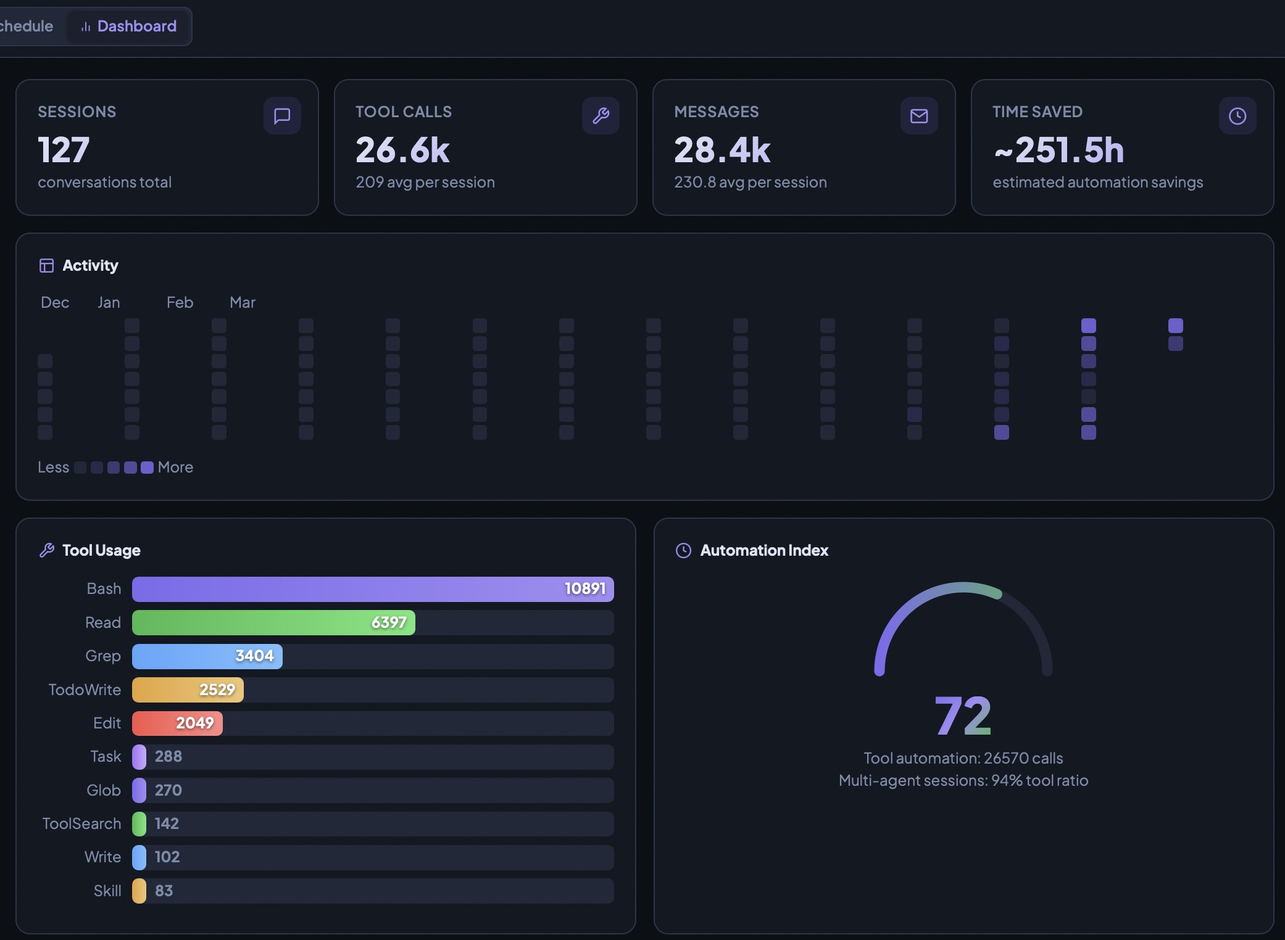
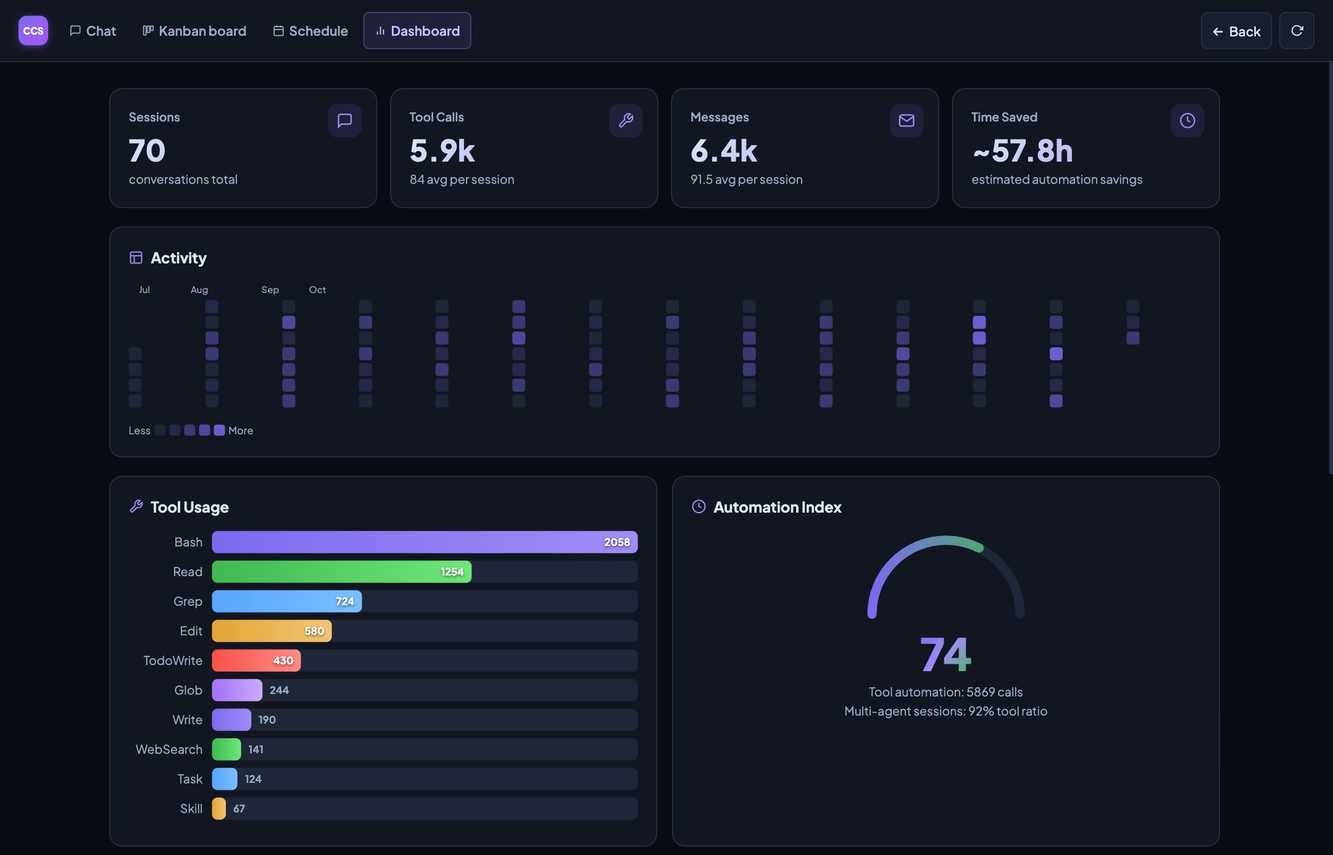
docs(readme): new screenshots of the focused workspace; descriptions match the current UI
Screenshots (same file names, so all three READMEs pick them up):
- 02-main-chat.png: the chat as it is now — Tools & team rail, Run settings, Back /
  Go to…, Files panel — with a real Claude conversation (Read + Edit on a demo repo).
- 03-kanban.png: the board with its new header (Back, Group, Task) and status columns.
- dashboard.jpg: the current dashboard.
Taken from a throwaway demo workspace (demo projects and demo history, no personal data).

Text, checked against the code, in EN/UA/RU:
- new "Focused workspace" paragraph: Tools & team, Run settings, More, Back, Go to… (⌘K/Ctrl+K);
- CLI import is under More (the header ↓ button is gone); Markdown export is ↓ Export ▾;
- bots, agents, Telegram pairing live under Tools & team; Effort and the engine ★ are in
  Run settings; New-chat defaults are under More → Configuration;
- Multi mode: 2–5 planned (cap 8), 3 at a time; the plan JSON is no longer claimed to be
  "guaranteed" to parse (a fallback exists);
- UA/RU gain the reverse-proxy boundary paragraph the English README already had;
- CLAUDE_IDLE_TIMEOUT_MS: note that .env.example ships 30 min.

diff --git a/README_RU.md b/README_RU.md
@@ -167,9 +167,11 @@ npm install -g npm@latest
 
 Это не чат-бот. «Отрефактори эту функцию и добавь тесты» → Claude открывает файлы, редактирует их, запускает тесты, исправляет ошибки, докладывает о результатах — в реальном времени. Вставляйте скриншоты через Ctrl+V. Когда Claude задаёт вопрос в середине задачи, карточка сворачивается в компактный пузырь после вашего ответа. Нажмите **Compact & New** — разговор сожмётся через Haiku и продолжится в новой сессии с сохранённым контекстом, без траты токенов.
 
-**Быстрый фильтр боковой панели** — в каждой секции (Проекты, Чаты, MCP-серверы, Навыки, Команды) есть кнопка 🔽. Нажмите, введите несколько букв — список мгновенно сужается. Esc для сброса.
+**Сфокусированное рабочее пространство** — в левой панели остаются Активность, Проекты и Чаты; боты, агенты, MCP-серверы, навыки, команды, SSH-хосты, удалённый доступ и Telegram собраны в **Инструменты и команда**. Режим, режим агентов, модель, движок, effort и шаги — в одной панели **Параметры запуска** с кратким итогом, а импорт CLI, настройки, язык и выход — в меню **Ещё**. **Назад** возвращает к предыдущему чату или проекту (кнопки браузера «Назад» и «Вперёд» тоже работают), а **Перейти к…** (⌘K на macOS, Ctrl+K в других системах) открывает любую страницу, инструмент или проект.
 
-**Импорт сессий Claude CLI** — импортируйте существующие сессии Claude Code CLI из `~/.claude/projects/` прямо в Studio. Нажмите кнопку ↓ в шапке, укажите путь к проекту, выберите сессии, импортируйте. Уже импортированные сессии отмечаются, чтобы не было дублей. Работает на Windows (`C:\...`), macOS и Linux; поддерживается раскрытие `~`.
+**Быстрый фильтр боковой панели** — в каждой секции (Проекты, Чаты, а также MCP-серверы, Навыки и Команды в «Инструменты и команда») есть кнопка 🔽. Нажмите, введите несколько букв — список мгновенно сужается. Esc для сброса.
+
+**Импорт сессий Claude CLI** — импортируйте существующие сессии Claude Code CLI из `~/.claude/projects/` прямо в Studio. Откройте **Ещё → Импорт сессий Claude CLI**, укажите путь к проекту, выберите сессии, импортируйте. Уже импортированные сессии отмечаются, чтобы не было дублей. Работает на Windows (`C:\...`), macOS и Linux; поддерживается раскрытие `~`.
 
 **Расширенное мышление** — когда Claude использует extended thinking, каждый блок размышлений отображается как бейдж «Chain of thought» с оценкой количества слов. Нажмите, чтобы открыть полную цепочку рассуждений в модальном окне с кнопкой копирования. Модальные окна импорта CLI и цепочки рассуждений полностью локализованы (EN/UA/RU/FR/HE) — все надписи, сообщения статуса и формат дат адаптируются к выбранному языку интерфейса.
 
@@ -187,7 +189,7 @@ npm install -g npm@latest
 
 **Поиск в чате** — нажмите **Ctrl+F** (или **⌘F** на Mac), чтобы открыть строку поиска над сообщениями. Введите текст — отображаются только совпадающие сообщения. Перемещайтесь между совпадениями кнопками ▲▼ или **Enter / Shift+Enter**. **Esc** для закрытия. Мгновенно найдите ту команду, которую запускали триста сообщений назад.
 
-**Экспорт в Markdown** — нажмите **📄 MD** на панели сессии, чтобы скачать весь разговор как чистый `.md` файл. Сообщения пользователя становятся заголовками `## You`, ответы ассистента — `## Claude`. Идеально для вставки в документы, Notion, Obsidian или передачи в другой ИИ для анализа. Без настроек — один клик, мгновенная загрузка.
+**Экспорт в Markdown** — нажмите **↓ Экспорт ▾ → Markdown (.md)** на панели сессии, чтобы скачать весь разговор как чистый `.md` файл. Сообщения пользователя становятся заголовками `## You`, ответы ассистента — `## Claude`. Идеально для вставки в документы, Notion, Obsidian или передачи в другой ИИ для анализа. Без настроек — один клик, мгновенная загрузка.
 
 **Клавиша `G` — переход к последнему сообщению** — нажмите **`G`** (вне текстового поля) для мгновенного перехода в конец чата. Незаменимо в длинных сессиях, когда вы прокрутили вверх для просмотра контекста и хотите вернуться без мыши.
 
@@ -220,7 +222,7 @@ npm install -g npm@latest
 
 Один ассистент, отвечающий на всё, — это универсал. **Боты** позволяют создать *именованных специалистов*: у каждого свой системный промпт, своя модель, своя память разговора — и посадить нескольких в **один чат**, обращаясь по имени.
 
-Создайте бота в боковой панели: имя, аватар, описание, модель, инструкции (или возьмите готовый шаблон — Аналитик, Редактор, Рецензент, Объяснятель). Дальше просто зовите:
+Создайте бота в **Инструменты и команда → Боты**: имя, аватар, описание, модель, инструкции (или возьмите готовый шаблон — Аналитик, Редактор, Рецензент, Объяснятель). Дальше просто зовите:
 
 ```
 @@analyst @@writer Проанализируйте рынок криптовалют за квартал и сделайте PDF-отчёт для клуба трейдеров.
@@ -321,7 +323,7 @@ npm install -g npm@latest
 
 ### 📱 Telegram-бот — управление с телефона
 
-Привязка за 30 секунд (6-символьный код в Настройках). Ваш телефон становится полноценным пультом управления:
+Привязка за 30 секунд: **Инструменты и команда → Telegram → Подключить Telegram**, затем введите 6-символьный код в Telegram-боте. Ваш телефон становится полноценным пультом управления:
 
 - **Очередь и мониторинг:** `/projects`, `/chats`, `/tasks`, `/chat`, `/new`
 - **Просмотр результатов:** `/last`, `/full` — плюс push-уведомления о завершении или сбое задач
@@ -345,7 +347,7 @@ npm install -g npm@latest
 | | Одиночный | Мультиагент | Dispatch | Комната |
 |---|---|---|---|---|
 | Где | Чат | Чат | Kanban-доска | Чат |
-| Агенты | 1 | 2–5 параллельно | 2–5 как карточки задач | 2–6 ботов проекта |
+| Агенты | 1 | 2–5 по плану (до 8), по 3 одновременно | 2–5 как карточки задач | 2–6 ботов проекта |
 | Зависимости | — | Базовые | Полный DAG | Последовательные ходы |
 | Автоповтор | Нет | Нет | Да (с задержкой) | Нет |
 | Выживает перезапуск | Нет | Нет | Да (SQLite) | Нет |
@@ -368,7 +370,7 @@ npm install -g npm@latest
 
 Как работает: нажмите **Делегировать** в панели сессии, выберите агента и режим, опишите задачу. Studio генерирует `CONTEXT.md` с историей разговора и открывает терминал с внешним агентом. В режиме Sync оба агента общаются через общий `DIALOG.md` — ответы появляются прямо в основном чате с уведомлениями в реальном времени.
 
-**Панель агентов** — управление внешними агентами теперь встроено прямо в боковую панель. Добавляйте, редактируйте и удаляйте агентов без правки `config.json`. Восемь агентов — Claude Code, Codex, Grok, Antigravity CLI, opencode, Hermes, Cursor Agent и Kimi — **настроены из коробки** и создаются автоматически при первом запуске. Кнопка **Тест** рядом с каждым агентом проверяет подключение перед делегированием. ID агента генерируется из названия автоматически (с транслитерацией кириллицы). Полностью локализовано EN/UA/RU/FR/HE. Работает на **Windows** — делегирование через `cmd.exe` с правильным экранированием. Делегирования сохраняются после перезапуска сервера.
+**Панель агентов** — управление внешними агентами теперь встроено в боковую панель — раздел **Инструменты и команда**. Добавляйте, редактируйте и удаляйте агентов без правки `config.json`. Восемь агентов — Claude Code, Codex, Grok, Antigravity CLI, opencode, Hermes, Cursor Agent и Kimi — **настроены из коробки** и создаются автоматически при первом запуске. Кнопка **Тест** рядом с каждым агентом проверяет подключение перед делегированием. ID агента генерируется из названия автоматически (с транслитерацией кириллицы). Полностью локализовано EN/UA/RU/FR/HE. Работает на **Windows** — делегирование через `cmd.exe` с правильным экранированием. Делегирования сохраняются после перезапуска сервера.
 
 ### 🎛 Режимы чата
 
@@ -410,7 +412,7 @@ Sonnet, Opus и Fable работают с **контекстным окном в
 
 Бюджет итераций: 1–200 (по умолчанию 50). Автопродолжение до 3х — так что 50 итераций фактически означает до 200 шагов.
 
-**Регулятор глубины мышления** — новый выпадающий список `Effort` в панели инструментов чата (а также в формах задач и цепочек) позволяет настроить, насколько глубоко Claude думает перед ответом: `Auto` (по умолчанию CLI), `Low`, `Med`, `High`, `X-High` или `Max`. Уровень effort автоматически передаётся каждой подзадаче и цепочке — задайте один раз, работает везде.
+**Регулятор глубины мышления** — новый выпадающий список `Effort` в панели **Параметры запуска** чата (а также в формах задач и цепочек) позволяет настроить, насколько глубоко Claude думает перед ответом: `Auto` (по умолчанию CLI), `Low`, `Med`, `High`, `X-High` или `Max`. Уровень effort автоматически передаётся каждой подзадаче и цепочке — задайте один раз, работает везде.
 
 **У каждого чата свои настройки.** Бюджет итераций и глубина мышления хранятся *вместе с чатом*, рядом с его режимом, режимом агентов и моделью. Откройте вкладку заново, разветвите разговор, сожмите его, импортируйте экспортированный JSON или откройте чат за карточкой Kanban — он вернётся с теми настройками, с которыми был создан, а не с теми, что были в предыдущей открытой вкладке. Чат, у которого своих не сохранилось (созданный до этого релиза или через API), откатывается на описанную ниже цепочку значений по умолчанию для новых чатов.
 
@@ -423,9 +425,9 @@ Sonnet, Opus и Fable работают с **контекстным окном в
 
 Активный движок всегда виден в панели сессии: бейдж **⚡ Max** появляется, когда сессия работает через движок Subscription — вы никогда не перепутаете, какой режим биллинга активен. Наведите курсор на кнопку движка, чтобы увидеть полное объяснение перед переключением.
 
-**Глобальный движок по умолчанию** — выберите предпочитаемый движок один раз кнопкой **★** рядом с переключателем (звезда загорается, когда текущий выбор и есть ваш дефолт). Каждый новый чат — и каждая новая карточка **Kanban** и задача **Scheduler** — стартует с ним, а отдельный чат или задачу всегда можно переключить отдельно. Выбор движка одинаково доступен в Чате, форме задачи Kanban и форме Scheduler, и автоматически откатывается на **API**, когда `tmux` недоступен (например, нативный Windows без WSL) — опция Subscription становится неактивной с подсказкой, а не падает только после отправки.
+**Глобальный движок по умолчанию** — выберите предпочитаемый движок один раз кнопкой **★** рядом с переключателем движка в **Параметры запуска** (звезда загорается, когда текущий выбор и есть ваш дефолт). Каждый новый чат — и каждая новая карточка **Kanban** и задача **Scheduler** — стартует с ним, а отдельный чат или задачу всегда можно переключить отдельно. Выбор движка одинаково доступен в Чате, форме задачи Kanban и форме Scheduler, и автоматически откатывается на **API**, когда `tmux` недоступен (например, нативный Windows без WSL) — опция Subscription становится неактивной с подсказкой, а не падает только после отправки.
 
-**Значения по умолчанию для новых чатов** — та же идея, распространённая на всю панель инструментов. Закрепите **режим, режим агентов, модель, effort и бюджет итераций** в Настройках → *Значения по умолчанию для новых чатов*, и каждый новый чат будет открываться с ними, а не со встроенными. Проект может переопределить любое подмножество из этих пяти в своих настройках; он хранит **только те регуляторы, которые вы действительно закрепили**, поэтому остальные продолжают следовать за глобальным значением, когда вы меняете его позже. Цепочка такая: **переопределение проекта → глобальное значение → встроенное**, и в каждой строке видно, откуда из трёх пришло значение, плюс сброс в один клик. Существующие чаты никогда не переинициализируются — каждый несёт свои настройки в SQLite.
+**Значения по умолчанию для новых чатов** — та же идея, распространённая на всю панель инструментов. Закрепите **режим, режим агентов, модель, effort и бюджет итераций** в **Ещё → Настройки** → *Значения по умолчанию для новых чатов*, и каждый новый чат будет открываться с ними, а не со встроенными. Проект может переопределить любое подмножество из этих пяти в своих настройках; он хранит **только те регуляторы, которые вы действительно закрепили**, поэтому остальные продолжают следовать за глобальным значением, когда вы меняете его позже. Цепочка такая: **переопределение проекта → глобальное значение → встроенное**, и в каждой строке видно, откуда из трёх пришло значение, плюс сброс в один клик. Существующие чаты никогда не переинициализируются — каждый несёт свои настройки в SQLite.
 
 ### 🌐 Удалённый доступ и SSH
 
@@ -535,7 +537,7 @@ skills/                — .md-файлы навыков → системный 
 PORT=3000
 WORKDIR=./workspace
 MAX_TASK_WORKERS=5
-CLAUDE_IDLE_TIMEOUT_MS=600000   # kill subprocess after this idle gap (no output); default 10 min (legacy alias: CLAUDE_TIMEOUT_MS)
+CLAUDE_IDLE_TIMEOUT_MS=600000   # kill subprocess after this idle gap (no output); default 10 min, .env.example ships 30 min (legacy alias: CLAUDE_TIMEOUT_MS)
 CLAUDE_HARD_CAP_MS=0            # optional absolute timeout ceiling; 0 = disabled (default)
 TASK_DISCONNECT_TIMEOUT_MS=1800000  # abort a task this long after the browser tab detaches; 0 = never
 MULTI_AGENT_MAX_TURNS_CAP=200   # ceiling on turns per sub-agent; each may auto-continue 3x
@@ -545,6 +547,13 @@ ANTHROPIC_BASE_URL=       # LLM proxy/gateway (LiteLLM, Bifrost, OpenRouter)
 ```
 
 **Безопасность:** bcrypt (12 раундов), 32-байтные токены (TTL 30 дней), AES-256-GCM для SSH-паролей, заголовки Helmet.js, защита от path traversal, XSS-фильтрация, параметризованные SQL-запросы, ограничения буфера 2MB.
+
+**Граница обратного прокси:** никогда не выставляйте сервер в desktop-режиме через обратный прокси.
+Для веб-режима завершите первоначальную настройку локально, прежде чем открывать сервер наружу,
+и настройте прокси так, чтобы он сохранял исходный Host или задавал заголовок пересылки,
+например `X-Forwarded-For` (перезаписывая ненадёжные значения клиента). Прокси, который переписывает Host
+на loopback и удаляет все заголовки пересылки, неотличим от прямого локального клиента,
+поэтому первоначальная настройка не потребует удалённого кода настройки.
 
 **Разработка:**
 

diff --git a/README.md b/README.md
@@ -167,9 +167,11 @@ npm install -g npm@latest
 
 Not a chatbot. "Refactor this function and add tests" → Claude opens files, edits them, runs tests, fixes errors, reports back — in real time. Paste screenshots with Ctrl+V. When Claude asks a question mid-task, the card collapses into a compact pill after you answer. Hit **Compact & New** to summarize the conversation via Haiku and continue in a fresh session — all context preserved, zero token waste.
 
-**Sidebar quick-filter** — every sidebar section (Projects, Chats, MCP servers, Skills, Commands) has a 🔽 filter button. Click it, type a few letters — the list narrows instantly. Press Esc to clear.
+**Focused workspace** — the left rail keeps Activity, Projects and Chats; bots, agents, MCP servers, skills, commands, SSH hosts, remote access and Telegram sit under **Tools & team**. Mode, agent mode, model, engine, effort and turns live in one **Run settings** panel with a one-line summary, and CLI import, configuration, language and logout are under **More**. **Back** returns to the previous chat or project (browser Back and Forward work too), and **Go to…** (⌘K on macOS, Ctrl+K elsewhere) jumps to any page, tool or project.
 
-**Claude CLI session import** — import existing sessions from Claude Code CLI (`~/.claude/projects/`) directly into Studio. Click the ↓ button in the header, pick a project path, select sessions, import. Already-imported sessions are marked so you don't duplicate them. Works on Windows (`C:\...`), macOS, and Linux; supports `~` path expansion.
+**Sidebar quick-filter** — every sidebar section (Projects, Chats, and MCP servers, Skills and Commands under Tools & team) has a 🔽 filter button. Click it, type a few letters — the list narrows instantly. Press Esc to clear.
+
+**Claude CLI session import** — import existing sessions from Claude Code CLI (`~/.claude/projects/`) directly into Studio. Open **More → Import Claude CLI sessions**, pick a project path, select sessions, import. Already-imported sessions are marked so you don't duplicate them. Works on Windows (`C:\...`), macOS, and Linux; supports `~` path expansion.
 
 **Extended thinking** — when Claude uses extended thinking, each thinking block appears as a "Chain of thought" badge showing estimated word count. Click to open the full reasoning in a modal with a copy button. The CLI import modal and thinking modal are fully localized (EN/UA/RU/FR/HE) — all labels, status messages, and dates adapt to the selected interface language.
 
@@ -187,7 +189,7 @@ Hit **Translate** inside the thinking modal to render the chain of thought in yo
 
 **In-chat message search** — press **Ctrl+F** (or **⌘F** on Mac) to open a search bar above the messages. Type to instantly filter — only matching messages stay visible. Navigate between hits with ▲▼ or **Enter / Shift+Enter**. Press **Esc** to close. Instantly find that command you ran three hundred messages ago.
 
-**Export as Markdown** — click **📄 MD** in the session bar to download the entire conversation as a clean `.md` file. User messages become `## You` headings, assistant responses become `## Claude` headings. Perfect for pasting into docs, Notion, Obsidian, or dropping into another AI for analysis. Zero setup — one click, instant download.
+**Export as Markdown** — click **↓ Export ▾ → Markdown (.md)** in the session bar to download the entire conversation as a clean `.md` file. User messages become `## You` headings, assistant responses become `## Claude` headings. Perfect for pasting into docs, Notion, Obsidian, or dropping into another AI for analysis. Zero setup — one click, instant download.
 
 **`G` key — jump to latest message** — press **`G`** (outside a text field) to instantly snap to the bottom of the chat. Essential in long sessions where you've scrolled up to review context and want to get back without reaching for the mouse.
 
@@ -220,7 +222,7 @@ Use cases beyond backup:
 
 One assistant answering everything is a generalist. **Bots** let you create *named specialists* — each with its own system prompt, its own model, its own conversation memory — and put several of them in the **same chat**, addressed by name.
 
-Create a bot in the sidebar: give it a name, an avatar, a description, pick a model, write its instructions (or start from a built-in template — Analyst, Editor, Reviewer, Explainer). Then just call it:
+Create a bot under **Tools & team → Bots**: give it a name, an avatar, a description, pick a model, write its instructions (or start from a built-in template — Analyst, Editor, Reviewer, Explainer). Then just call it:
 
 ```
 @@analyst @@writer Analyse this quarter's crypto market and produce a PDF report for the traders' club.
@@ -321,7 +323,7 @@ Tasks inherit the project directory. Context is passed explicitly — children k
 
 ### 📱 Telegram Bot — Control from Your Phone
 
-Pair in 30 seconds (6-character code from Settings). Your phone becomes a full remote control:
+Pair in 30 seconds: **Tools & team → Telegram → Connect Telegram**, then enter the 6-character code in the bot. Your phone becomes a full remote control:
 
 - **Queue & monitor:** `/projects`, `/chats`, `/tasks`, `/chat`, `/new`
 - **See results:** `/last`, `/full` — plus push notifications when tasks finish or fail
@@ -345,13 +347,13 @@ Forum Mode is now powered by a **dedicated standalone module** (`telegram-bot-fo
 | | Single | Multi | Dispatch | Room |
 |---|---|---|---|---|
 | Where | Chat | Chat | Kanban board | Chat |
-| Agents | 1 | 2–5 parallel | 2–5 as task cards | 2–6 project bots |
+| Agents | 1 | 2–5 planned (up to 8), 3 at a time | 2–5 as task cards | 2–6 project bots |
 | Dependencies | — | Basic | Full DAG | Serial turns |
 | Auto-retry | No | No | Yes (with backoff) | No |
 | Survives restart | No | No | Yes (SQLite) | No |
 | Best for | Focused work | Complex tasks to watch | Background batch work | One question from several angles |
 
-**Multi** — orchestrator decomposes into 2–5 subtasks with real-time streaming. The planning step uses `--json-schema` structured output — the plan JSON is guaranteed to parse without regex extraction, even with complex prompts. Send plan to Kanban with 📋 button.
+**Multi** — orchestrator decomposes into 2–5 subtasks with real-time streaming. The planning step requests `--json-schema` structured output, so the plan normally arrives as valid JSON; a fallback still recovers a malformed reply, and the plan is sanitised either way. Send plan to Kanban with 📋 button.
 **Dispatch** — subtasks go to Kanban as persistent cards with dependency graphs, auto-retry, and cascade cancellation. Effort level set in chat flows to all dispatched tasks automatically.
 **Room** — 2–6 of the project's bots take serial turns on a single message, for at most 3 rounds, and the room then closes with one artifact. No bot can dispatch another from inside a room, and any of them can escalate to you with `@user`.
 
@@ -368,7 +370,7 @@ Send tasks to external AI CLIs — OpenAI Codex, Grok CLI, Antigravity CLI, open
 
 How it works: click **Delegate** in the session bar, pick an agent and mode, describe the task. Studio generates a `CONTEXT.md` with conversation history and opens a terminal with the external agent. In Sync mode, both agents communicate through a shared `DIALOG.md` — responses appear directly in the main chat with real-time notifications.
 
-**Agents sidebar** — managing external agents is now effortless. A dedicated **Agents** section in the sidebar lets you add, edit, and delete agents without touching `config.json`. Eight agents — Claude Code, Codex, Grok, Antigravity CLI, opencode, Hermes, Cursor Agent and Kimi — come **pre-configured out of the box**, seeded automatically on first run. Hit the **Test** button next to any agent to verify connectivity before delegating. Agent IDs auto-generate from the label (with Cyrillic transliteration), and the full UI is localized in EN/UA/RU/FR/HE. Works on **Windows** too — delegation now routes through `cmd.exe` with proper shell escaping. Delegations survive server restarts via persistent state files.
+**Agents sidebar** — managing external agents is now effortless. A dedicated **Agents** section under **Tools & team** lets you add, edit, and delete agents without touching `config.json`. Eight agents — Claude Code, Codex, Grok, Antigravity CLI, opencode, Hermes, Cursor Agent and Kimi — come **pre-configured out of the box**, seeded automatically on first run. Hit the **Test** button next to any agent to verify connectivity before delegating. Agent IDs auto-generate from the label (with Cyrillic transliteration), and the full UI is localized in EN/UA/RU/FR/HE. Works on **Windows** too — delegation now routes through `cmd.exe` with proper shell escaping. Delegations survive server restarts via persistent state files.
 
 ### 🎛 Chat Modes
 
@@ -410,7 +412,7 @@ Sonnet, Opus and Fable run with a **1 million token context window** — entire 
 
 Turn budget: 1–200 (default 50). Auto-continues up to 3x — so 50 turns effectively means up to 200 steps.
 
-**Thinking effort dial** — a new `Effort` dropdown in the chat toolbar (and task/chain forms) lets you tune how hard Claude thinks before responding: `Auto` (CLI default), `Low`, `Med`, `High`, `X-High`, or `Max`. The effort level flows automatically to every subtask and chain — set it once, runs everywhere.
+**Thinking effort dial** — an `Effort` dropdown in the chat's **Run settings** panel (and task/chain forms) lets you tune how hard Claude thinks before responding: `Auto` (CLI default), `Low`, `Med`, `High`, `X-High`, or `Max`. The effort level flows automatically to every subtask and chain — set it once, runs everywhere.
 
 **Every chat keeps its own dials.** Turn budget and thinking effort are stored *with the chat*, next to its mode, agent mode and model. Reopen a tab, fork a conversation, compact it, import an exported JSON, or open the chat behind a Kanban card — it comes back on the settings it was created with, not on whatever the previously open tab happened to be using. A chat that stored none of its own (created before this shipped, or through the API) falls back to the new-chat defaults chain below.
 
@@ -423,9 +425,9 @@ Turn budget: 1–200 (default 50). Auto-continues up to 3x — so 50 turns effec
 
 The active engine is always visible at a glance: a **⚡ Max** badge appears in the session bar whenever your session runs on the Subscription engine — so you never confuse which billing mode is in effect. Hover any engine button in the toolbar for a full explanation before you switch.
 
-**Global default** — set your preferred engine once with the **★** button next to the toolbar selector (the star lights up when the current selection is your default). Every new chat — and every new **Kanban** card and **Scheduler** task — starts on it, while any individual chat or task can still override per-item. The engine selector lives in Chat, the Kanban task form, and the Scheduler form alike, and falls back to **API** automatically when `tmux` is unavailable (e.g. native Windows without WSL) — the Subscription option is disabled with a clear hint rather than failing only after you send.
+**Global default** — set your preferred engine once with the **★** button next to the engine selector in **Run settings** (the star lights up when the current selection is your default). Every new chat — and every new **Kanban** card and **Scheduler** task — starts on it, while any individual chat or task can still override per-item. The engine selector lives in Chat, the Kanban task form, and the Scheduler form alike, and falls back to **API** automatically when `tmux` is unavailable (e.g. native Windows without WSL) — the Subscription option is disabled with a clear hint rather than failing only after you send.
 
-**New-chat defaults** — the same idea, extended to the whole toolbar. Pin **mode, agent mode, model, effort and turn budget** in Settings → *New-chat defaults*, and every new chat opens on them instead of on the built-ins. A project can override any subset of the five in its own settings; it stores **only the dials you actually pinned**, so the rest keep following the global value as you change it later. The chain is **project override → global default → built-in**, and every row shows which of the three it came from, with a one-click Reset. Existing chats are never re-seeded — each one carries its own settings in SQLite.
+**New-chat defaults** — the same idea, extended to the whole toolbar. Pin **mode, agent mode, model, effort and turn budget** in **More → Configuration → Settings** → *New-chat defaults*, and every new chat opens on them instead of on the built-ins. A project can override any subset of the five in its own settings; it stores **only the dials you actually pinned**, so the rest keep following the global value as you change it later. The chain is **project override → global default → built-in**, and every row shows which of the three it came from, with a one-click Reset. Existing chats are never re-seeded — each one carries its own settings in SQLite.
 
 ### 🌐 Remote Access & SSH
 
@@ -535,7 +537,7 @@ skills/                — .md skill files → system prompt
 PORT=3000
 WORKDIR=./workspace
 MAX_TASK_WORKERS=5
-CLAUDE_IDLE_TIMEOUT_MS=600000   # kill subprocess after this idle gap (no output); default 10 min (legacy alias: CLAUDE_TIMEOUT_MS)
+CLAUDE_IDLE_TIMEOUT_MS=600000   # kill subprocess after this idle gap (no output); default 10 min, .env.example ships 30 min (legacy alias: CLAUDE_TIMEOUT_MS)
 CLAUDE_HARD_CAP_MS=0            # optional absolute timeout ceiling; 0 = disabled (default)
 TASK_DISCONNECT_TIMEOUT_MS=1800000  # abort a task this long after the browser tab detaches; 0 = never
 MULTI_AGENT_MAX_TURNS_CAP=200   # ceiling on turns per sub-agent; each may auto-continue 3x
